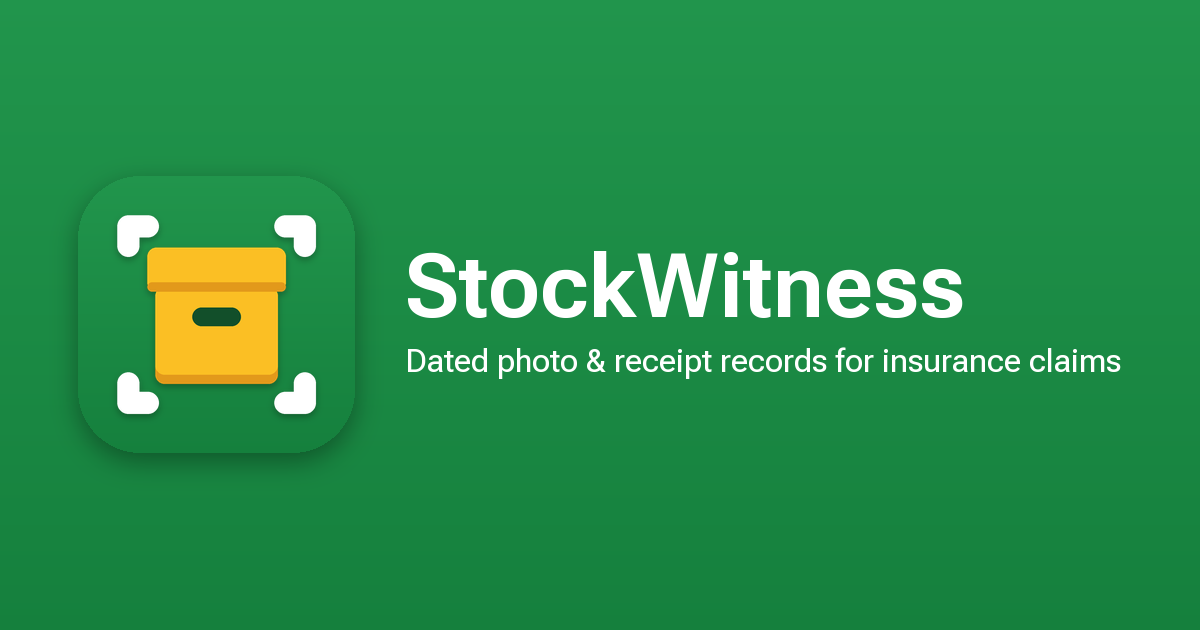
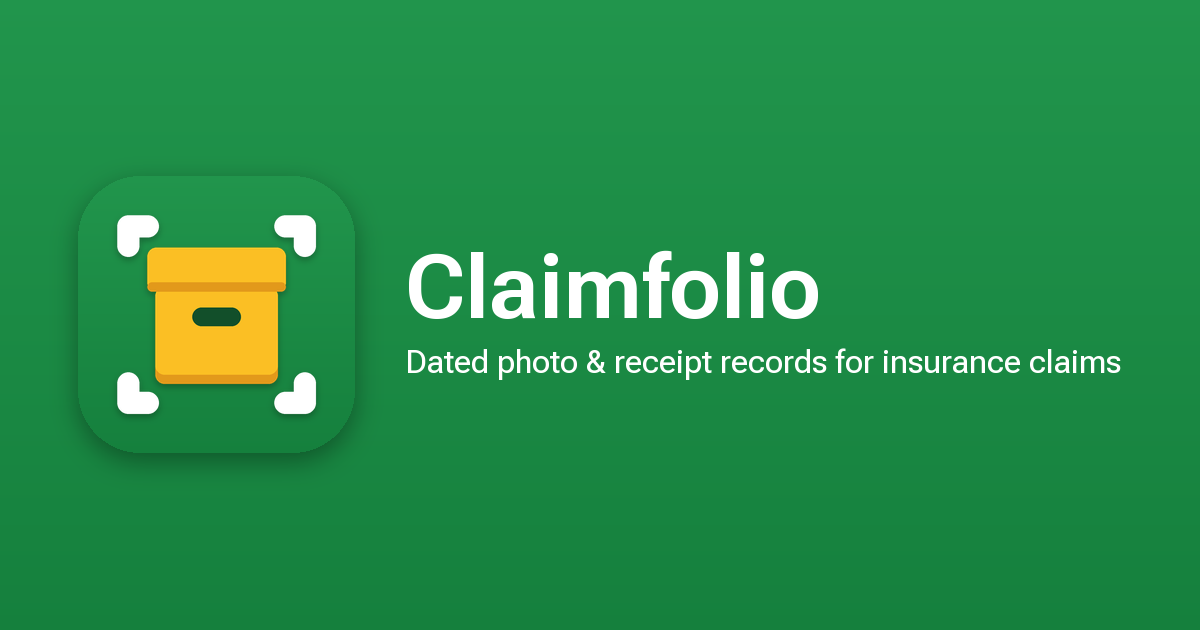
site: the app is now Claimfolio (renamed from StockWitness, 2026-10-20)
Every page's title, heading, text and footer, the favicon's title and the
share image now say Claimfolio. The home page gains SoftwareApplication
structured data. The address stays /stockwitness/: both store records
already point their privacy, support and marketing URLs here.

Changed region(s): [[0.3392, 0.3921, 0.8017, 0.5127], [0.4317, 0.5429, 0.925, 0.6032], [0.3392, 0.5429, 0.4008, 0.6032]]

diff --git a/index.html b/index.html
@@ -3,26 +3,29 @@
 <head>
 <meta charset="utf-8">
 <meta name="viewport" content="width=device-width, initial-scale=1">
-<title>StockWitness — a dated photo inventory for insurance claims</title>
-<meta name="description" content="StockWitness keeps a dated photo-and-receipt record of a small business’s equipment and stock on your phone. Free, then one $4.99 unlock. No account, no subscription.">
+<title>Claimfolio — a dated photo inventory for insurance claims</title>
+<meta name="description" content="Claimfolio keeps a dated photo-and-receipt record of a small business’s equipment and stock on your phone. Free, then one $4.99 unlock. No account, no subscription.">
 <meta name="color-scheme" content="light dark">
-<meta property="og:title" content="StockWitness — a dated photo inventory for insurance claims">
-<meta property="og:description" content="StockWitness keeps a dated photo-and-receipt record of a small business’s equipment and stock on your phone. Free, then one $4.99 unlock. No account, no subscription.">
+<meta property="og:title" content="Claimfolio — a dated photo inventory for insurance claims">
+<meta property="og:description" content="Claimfolio keeps a dated photo-and-receipt record of a small business’s equipment and stock on your phone. Free, then one $4.99 unlock. No account, no subscription.">
 <meta property="og:image" content="https://soloinc-projects.github.io/stockwitness/og-image.png">
 <link rel="canonical" href="https://soloinc-projects.github.io/stockwitness/">
 <link rel="icon" href="favicon.svg" type="image/svg+xml">
 <link rel="apple-touch-icon" href="apple-touch-icon.png">
 <link rel="stylesheet" href="style.css">
+<script type="application/ld+json">
+{"@context":"https://schema.org","@type":"SoftwareApplication","name":"Claimfolio","applicationCategory":"BusinessApplication","operatingSystem":"iOS 18 or later; Android 8.0 or later","description":"A dated photo-and-receipt record of a small business\u2019s equipment and stock, kept on your phone, for insurance claims. Free for 10 entries, then one $4.99 unlock; no subscription.","offers":{"@type":"Offer","price":"0","priceCurrency":"USD"},"publisher":{"@type":"Organization","name":"8086 LLC"},"url":"https://soloinc-projects.github.io/stockwitness/","image":"https://soloinc-projects.github.io/stockwitness/og-image.png"}
+</script>
 </head>
 <body>
 <a class="skip" href="#main">Skip to content</a>
 <header><div class="wrap">
-<a class="brand" href="./"><img src="favicon.svg" alt="" width="32" height="32">StockWitness</a>
+<a class="brand" href="./"><img src="favicon.svg" alt="" width="32" height="32">Claimfolio</a>
 <nav aria-label="Site"><a href="privacy/">Privacy</a><a href="support/">Support</a></nav>
 </div></header>
 <main id="main"><div class="wrap">
 <h1>Keep your proof together, before you need it.</h1>
-<p class="lede">StockWitness keeps a dated record of your business&rsquo;s equipment and stock &mdash; a photo, the date, and the receipt when you have it &mdash; so that after a loss you can show your insurer what you had, from evidence instead of memory.</p>
+<p class="lede">Claimfolio keeps a dated record of your business&rsquo;s equipment and stock &mdash; a photo, the date, and the receipt when you have it &mdash; so that after a loss you can show your insurer what you had, from evidence instead of memory.</p>
 <p class="muted">Coming to the App Store (iPhone and iPad, iOS 18 or later) and Google Play (Android 8 or later). Not yet released.</p>
 
 <h2>What it does</h2>
@@ -41,15 +44,15 @@
 <p class="muted">Screenshots show sample entries.</p>
 
 <h2>Free, then one $4.99 unlock, and on your phone only</h2>
-<p>StockWitness is free to download, and the free version does everything for up to 10 entries. One $4.99 in-app purchase removes the limit for good: pay once, no subscription, no advertising, and nothing you have saved is ever locked. There is no account and no sign-in. The app itself sends nothing anywhere (only buying or restoring the unlock talks to the App Store or Google Play); your ledger stays on your phone and is included in your phone&rsquo;s own backup if you have backup turned on (see the <a href="privacy/">privacy policy</a>).</p>
+<p>Claimfolio is free to download, and the free version does everything for up to 10 entries. One $4.99 in-app purchase removes the limit for good: pay once, no subscription, no advertising, and nothing you have saved is ever locked. There is no account and no sign-in. The app itself sends nothing anywhere (only buying or restoring the unlock talks to the App Store or Google Play); your ledger stays on your phone and is included in your phone&rsquo;s own backup if you have backup turned on (see the <a href="privacy/">privacy policy</a>).</p>
 
 <h2>What it does not do</h2>
-<p>StockWitness never estimates what a claim is worth and never contacts your insurer. You review and submit every claim yourself. It is a record-keeping tool, not insurance or advice.</p>
+<p>Claimfolio never estimates what a claim is worth and never contacts your insurer. You review and submit every claim yourself. It is a record-keeping tool, not insurance or advice.</p>
 
 </div></main>
 <footer><div class="wrap">
 <a href="privacy/">Privacy policy</a><a href="support/">Support</a><a href="delete-data/">Deleting your data</a>
-<p>StockWitness is made by 8086 LLC, New York. &copy; 2026 8086 LLC.</p>
+<p>Claimfolio is made by 8086 LLC, New York. &copy; 2026 8086 LLC.</p>
 </div></footer>
 </body>
 </html>

diff --git a/privacy/index.html b/privacy/index.html
@@ -3,11 +3,11 @@
 <head>
 <meta charset="utf-8">
 <meta name="viewport" content="width=device-width, initial-scale=1">
-<title>Privacy policy — StockWitness</title>
-<meta name="description" content="What StockWitness keeps, where it keeps it, and what it never collects.">
+<title>Privacy policy — Claimfolio</title>
+<meta name="description" content="What Claimfolio keeps, where it keeps it, and what it never collects.">
 <meta name="color-scheme" content="light dark">
-<meta property="og:title" content="Privacy policy — StockWitness">
-<meta property="og:description" content="What StockWitness keeps, where it keeps it, and what it never collects.">
+<meta property="og:title" content="Privacy policy — Claimfolio">
+<meta property="og:description" content="What Claimfolio keeps, where it keeps it, and what it never collects.">
 <meta property="og:image" content="https://soloinc-projects.github.io/stockwitness/og-image.png">
 <link rel="canonical" href="https://soloinc-projects.github.io/stockwitness/privacy/">
 <link rel="icon" href="../favicon.svg" type="image/svg+xml">
@@ -17,13 +17,13 @@
 <body>
 <a class="skip" href="#main">Skip to content</a>
 <header><div class="wrap">
-<a class="brand" href="../"><img src="../favicon.svg" alt="" width="32" height="32">StockWitness</a>
+<a class="brand" href="../"><img src="../favicon.svg" alt="" width="32" height="32">Claimfolio</a>
 <nav aria-label="Site"><a href="../privacy/">Privacy</a><a href="../support/">Support</a></nav>
 </div></header>
 <main id="main"><div class="wrap">
 <h1>Privacy policy</h1>
-<p class="muted">StockWitness, by 8086 LLC &middot; Effective 18 October 2026</p>
-<div class="card"><p><strong>In short:</strong> StockWitness keeps your inventory on your phone. It has no account and no server, and it never sends your ledger to us or anyone else. 8086 LLC receives nothing from the app.</p></div>
+<p class="muted">Claimfolio, by 8086 LLC &middot; Effective 18 October 2026</p>
+<div class="card"><p><strong>In short:</strong> Claimfolio keeps your inventory on your phone. It has no account and no server, and it never sends your ledger to us or anyone else. 8086 LLC receives nothing from the app.</p></div>
 
 <h2>What the app keeps, and where</h2>
 <table>
@@ -38,7 +38,7 @@
 <p>The app uses your operating system&rsquo;s standard file protection. It adds no encryption of its own.</p>
 
 <h2>Backups</h2>
-<p>If iCloud Backup (iPhone) or Android backup to your Google account is turned on, your phone includes your StockWitness ledger in that backup and restores it to a new phone. That copy is held by Apple or Google under your account; StockWitness and 8086 LLC never see it. Turn backup off in your phone&rsquo;s settings if you would rather the ledger stayed only on the phone.</p>
+<p>If iCloud Backup (iPhone) or Android backup to your Google account is turned on, your phone includes your Claimfolio ledger in that backup and restores it to a new phone. That copy is held by Apple or Google under your account; Claimfolio and 8086 LLC never see it. Turn backup off in your phone&rsquo;s settings if you would rather the ledger stayed only on the phone.</p>
 
 <h2>When a file leaves your phone</h2>
 <p>Only when you export the ledger (PDF or CSV) and choose where it goes &mdash; for example Files, an email or a message. Where it goes after that is up to you.</p>
@@ -50,7 +50,7 @@
 <p>Delete an item in the app, or delete the app to remove everything it keeps on the phone. To remove the copy in your phone&rsquo;s backup, delete it from your iCloud or Google account backups. There is nothing held by us to delete. See <a href="../delete-data/">Deleting your data</a>.</p>
 
 <h2>Children</h2>
-<p>StockWitness is a business record-keeping tool and is not directed at children.</p>
+<p>Claimfolio is a business record-keeping tool and is not directed at children.</p>
 
 <h2>Changes and contact</h2>
 <p>If this policy changes, the new version will be posted here with a new effective date. Questions: <a href="mailto:support@8086.llc">support@8086.llc</a>, 8086 LLC, 372 5th Ave, New York, NY 10018, United States.</p>
@@ -58,7 +58,7 @@
 </div></main>
 <footer><div class="wrap">
 <a href="../privacy/">Privacy policy</a><a href="../support/">Support</a><a href="../delete-data/">Deleting your data</a>
-<p>StockWitness is made by 8086 LLC, New York. &copy; 2026 8086 LLC.</p>
+<p>Claimfolio is made by 8086 LLC, New York. &copy; 2026 8086 LLC.</p>
 </div></footer>
 </body>
 </html>

diff --git a/support/index.html b/support/index.html
@@ -3,11 +3,11 @@
 <head>
 <meta charset="utf-8">
 <meta name="viewport" content="width=device-width, initial-scale=1">
-<title>Support — StockWitness</title>
-<meta name="description" content="Help with StockWitness: questions, problems and how to reach a person.">
+<title>Support — Claimfolio</title>
+<meta name="description" content="Help with Claimfolio: questions, problems and how to reach a person.">
 <meta name="color-scheme" content="light dark">
-<meta property="og:title" content="Support — StockWitness">
-<meta property="og:description" content="Help with StockWitness: questions, problems and how to reach a person.">
+<meta property="og:title" content="Support — Claimfolio">
+<meta property="og:description" content="Help with Claimfolio: questions, problems and how to reach a person.">
 <meta property="og:image" content="https://soloinc-projects.github.io/stockwitness/og-image.png">
 <link rel="canonical" href="https://soloinc-projects.github.io/stockwitness/support/">
 <link rel="icon" href="../favicon.svg" type="image/svg+xml">
@@ -17,7 +17,7 @@
 <body>
 <a class="skip" href="#main">Skip to content</a>
 <header><div class="wrap">
-<a class="brand" href="../"><img src="../favicon.svg" alt="" width="32" height="32">StockWitness</a>
+<a class="brand" href="../"><img src="../favicon.svg" alt="" width="32" height="32">Claimfolio</a>
 <nav aria-label="Site"><a href="../privacy/">Privacy</a><a href="../support/">Support</a></nav>
 </div></header>
 <main id="main"><div class="wrap">
@@ -25,7 +25,7 @@
 <p>Write to <a href="mailto:support@8086.llc">support@8086.llc</a>. A person reads every message. Please say which phone and system version you use, the app version (shown in Settings), what you did and what happened.</p>
 
 <h2>Questions</h2>
-<h3>Does StockWitness cost anything?</h3>
+<h3>Does Claimfolio cost anything?</h3>
 <p>It is free to download, and the free version holds up to 10 entries with every feature, export included. One $4.99 in-app purchase removes the limit for good. There is no subscription and no advertising. If you change phones, tap Restore Purchases in Settings (same Apple Account or Google account). Viewing, editing, deleting and exporting what you have saved are never locked.</p>
 <h3>Where does my data go?</h3>
 <p>It stays on your phone. The app sends nothing anywhere; only buying or restoring the unlock talks to the App Store or Google Play. If your phone&rsquo;s backup is on, the ledger is included in your own iCloud or Google backup. See the <a href="../privacy/">privacy policy</a>.</p>
@@ -45,7 +45,7 @@
 </div></main>
 <footer><div class="wrap">
 <a href="../privacy/">Privacy policy</a><a href="../support/">Support</a><a href="../delete-data/">Deleting your data</a>
-<p>StockWitness is made by 8086 LLC, New York. &copy; 2026 8086 LLC.</p>
+<p>Claimfolio is made by 8086 LLC, New York. &copy; 2026 8086 LLC.</p>
 </div></footer>
 </body>
 </html>

diff --git a/delete-data/index.html b/delete-data/index.html
@@ -3,11 +3,11 @@
 <head>
 <meta charset="utf-8">
 <meta name="viewport" content="width=device-width, initial-scale=1">
-<title>Deleting your data — StockWitness</title>
-<meta name="description" content="StockWitness has no account. How to delete what it keeps on your phone.">
+<title>Deleting your data — Claimfolio</title>
+<meta name="description" content="Claimfolio has no account. How to delete what it keeps on your phone.">
 <meta name="color-scheme" content="light dark">
-<meta property="og:title" content="Deleting your data — StockWitness">
-<meta property="og:description" content="StockWitness has no account. How to delete what it keeps on your phone.">
+<meta property="og:title" content="Deleting your data — Claimfolio">
+<meta property="og:description" content="Claimfolio has no account. How to delete what it keeps on your phone.">
 <meta property="og:image" content="https://soloinc-projects.github.io/stockwitness/og-image.png">
 <link rel="canonical" href="https://soloinc-projects.github.io/stockwitness/delete-data/">
 <link rel="icon" href="../favicon.svg" type="image/svg+xml">
@@ -17,16 +17,16 @@
 <body>
 <a class="skip" href="#main">Skip to content</a>
 <header><div class="wrap">
-<a class="brand" href="../"><img src="../favicon.svg" alt="" width="32" height="32">StockWitness</a>
+<a class="brand" href="../"><img src="../favicon.svg" alt="" width="32" height="32">Claimfolio</a>
 <nav aria-label="Site"><a href="../privacy/">Privacy</a><a href="../support/">Support</a></nav>
 </div></header>
 <main id="main"><div class="wrap">
 <h1>Deleting your data</h1>
-<p><strong>StockWitness has no account</strong>, no sign-in and no server, so there is no account to delete and nothing held by 8086 LLC.</p>
+<p><strong>Claimfolio has no account</strong>, no sign-in and no server, so there is no account to delete and nothing held by 8086 LLC.</p>
 <h2>On your phone</h2>
 <ul>
 <li>To delete one item: open it in the ledger and choose Delete.</li>
-<li>To delete everything: delete the StockWitness app. Its private storage &mdash; every entry, photo, receipt image, note and crash report &mdash; is removed with it.</li>
+<li>To delete everything: delete the Claimfolio app. Its private storage &mdash; every entry, photo, receipt image, note and crash report &mdash; is removed with it.</li>
 </ul>
 <h2>In your phone&rsquo;s backup</h2>
 <p>If iCloud Backup or Android backup was on, a copy of the ledger may be in that backup. Delete it from your iCloud or Google account&rsquo;s backups.</p>
@@ -35,7 +35,7 @@
 </div></main>
 <footer><div class="wrap">
 <a href="../privacy/">Privacy policy</a><a href="../support/">Support</a><a href="../delete-data/">Deleting your data</a>
-<p>StockWitness is made by 8086 LLC, New York. &copy; 2026 8086 LLC.</p>
+<p>Claimfolio is made by 8086 LLC, New York. &copy; 2026 8086 LLC.</p>
 </div></footer>
 </body>
 </html>
